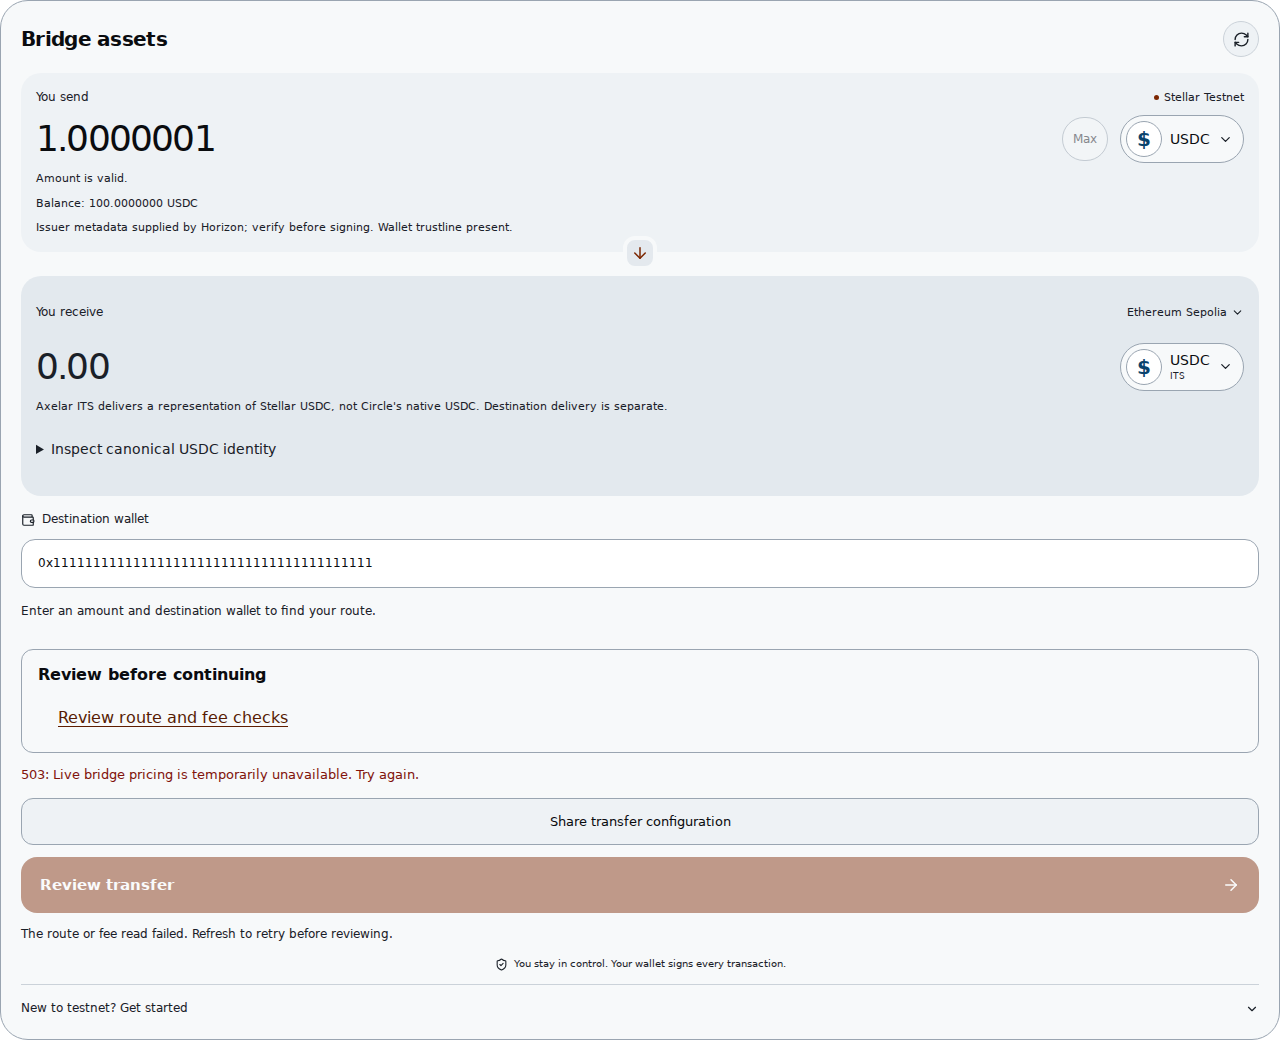
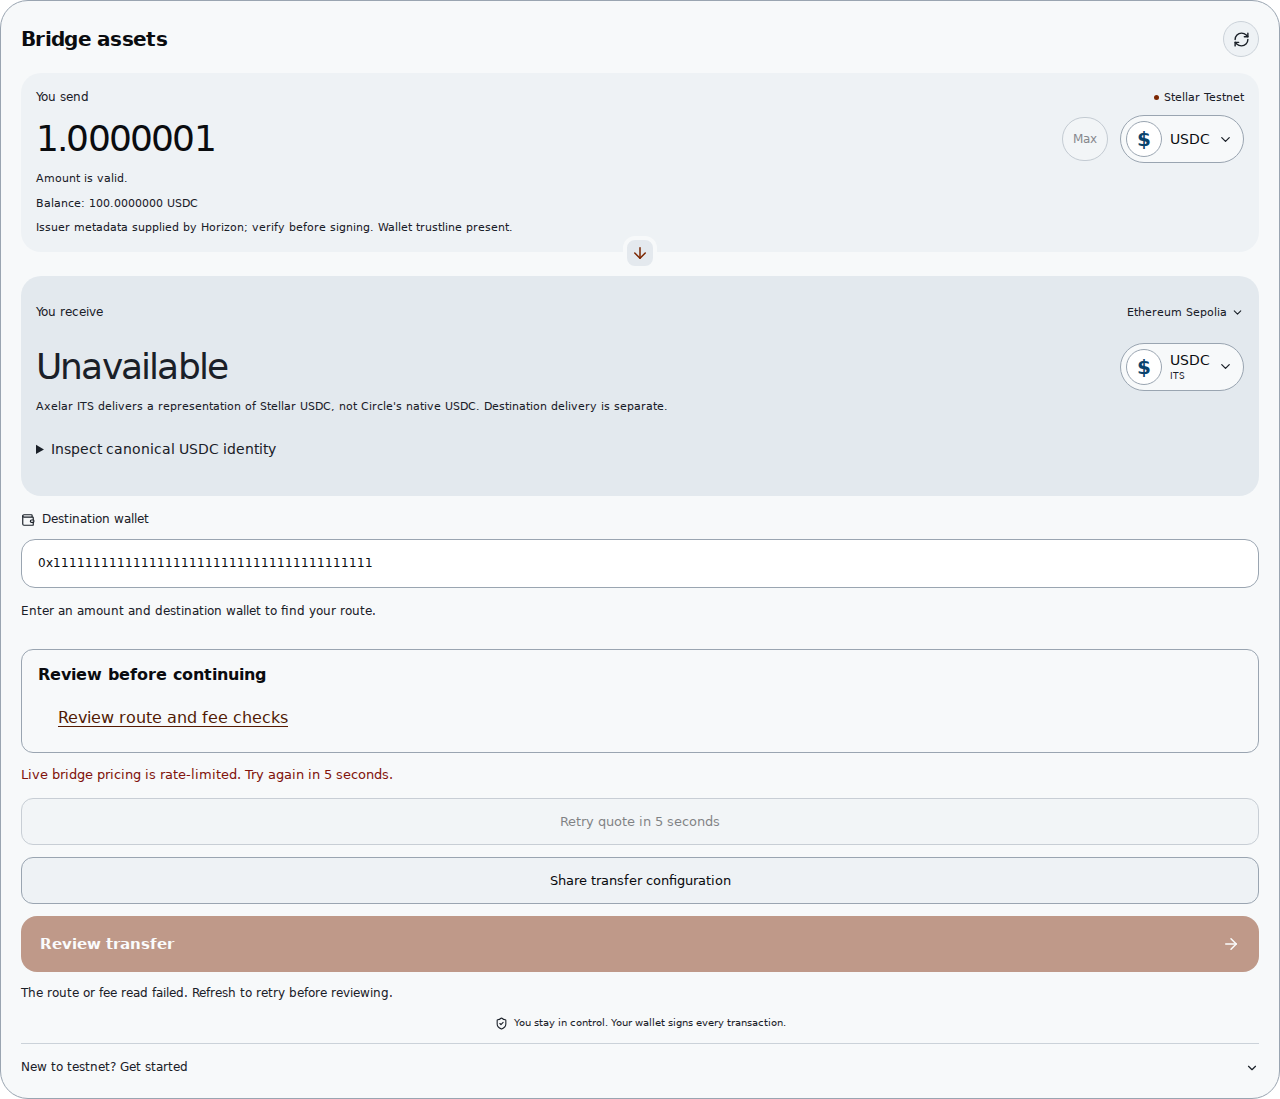
Record cumulative accessibility validation and current browser evidence

diff --git a/docs/review/accessible-review-actions/README.md b/docs/review/accessible-review-actions/README.md
@@ -8,4 +8,4 @@ The current production Bridge, Providers and wallet SDK browser passed exact inv
 - [Mobile quote failure summary](summary-mobile.png)
 - [Mobile saved recovery](recovery-mobile.png)
 
-[source-evidence.json](source-evidence.json) records current production-source fingerprints. Scoped strict lint passed. Full cumulative validation is pending integration of the preceding provider-retry and bundle-analysis work.
+[source-evidence.json](source-evidence.json) records current production-source fingerprints. All seven supported Node 22 commands passed on cumulative sourced4ac343f: formatting, house rules, contrast, 509 deterministic tests/four funded skips, strict lint, typecheck and the production Turbopack build. Actual emitted client bundle checks passed with wallet119262/450000 and transaction1098386/1200000 bytes. The refreshed browser includes the final preceding cooldown implementation and waits for its explicit retry boundary.
